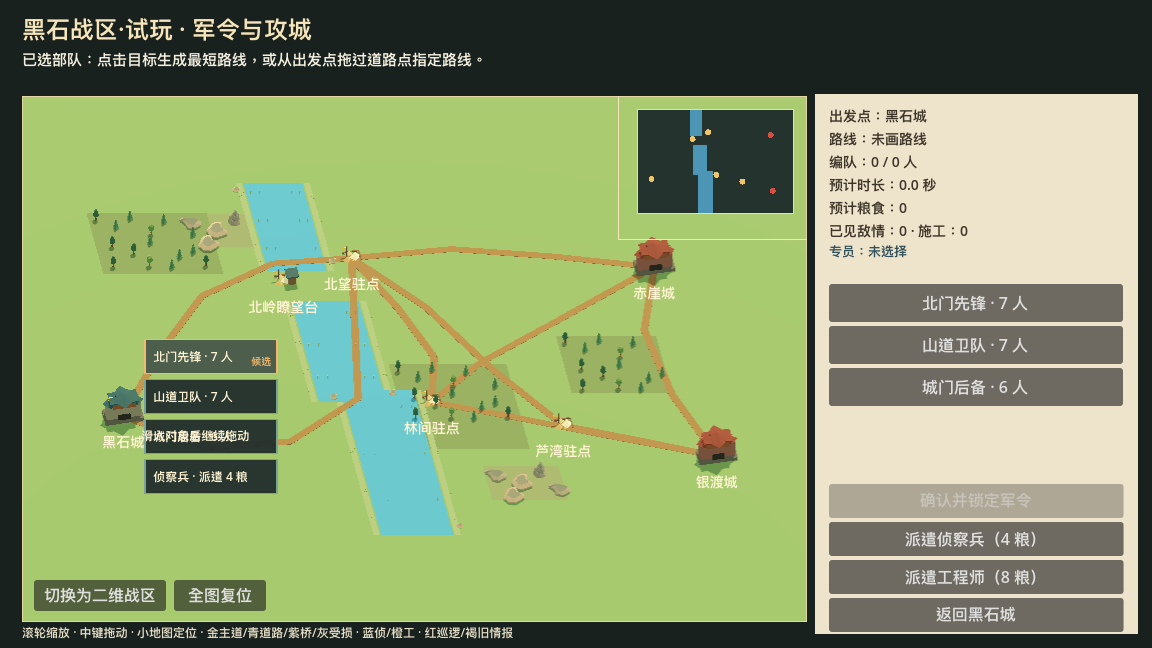
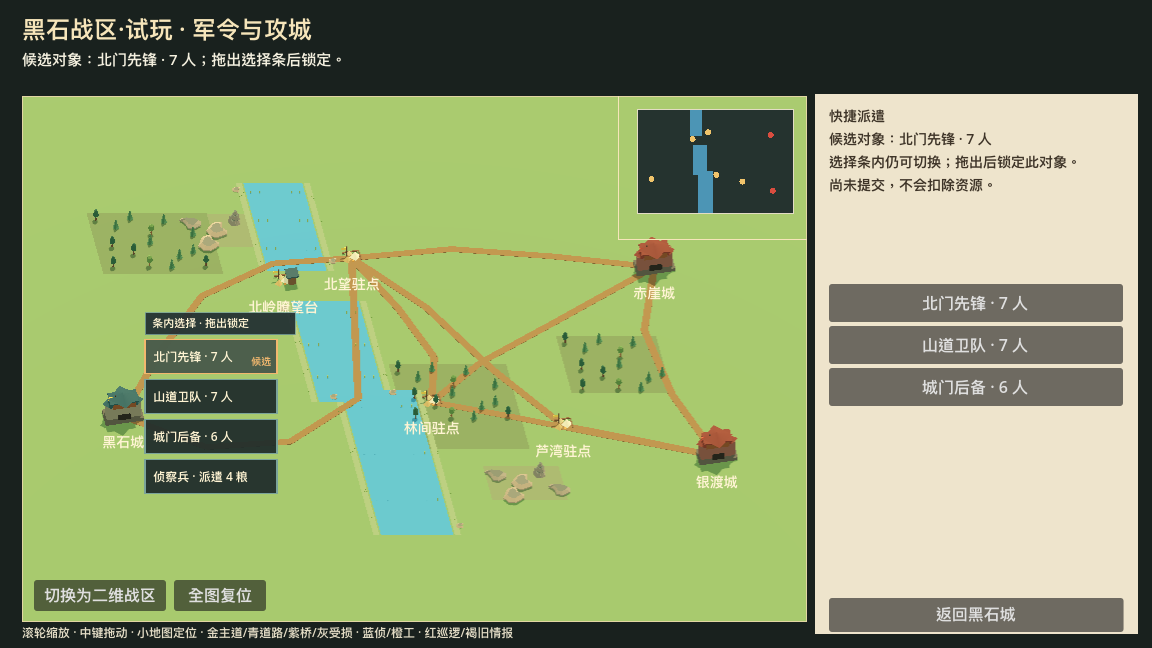
clarify direct dispatch status copy

diff --git a/docs/milestones/txwzs-field-tactics-r2/evidence/20260910-direct-map-dispatch/VERIFICATION.md b/docs/milestones/txwzs-field-tactics-r2/evidence/20260910-direct-map-dispatch/VERIFICATION.md
@@ -18,6 +18,20 @@ transaction after a valid target release. Engineering keeps the deliberately
 different editable plan: release into legal open land creates a draft only;
 the visible map-side `开工` action is the sole construction commitment.
 
+## Display-priority follow-up
+
+While the direct-map gesture is active, the top status and side detail use the
+same current gesture state rather than the normal selected-army or specialist
+copy. They show the candidate row while the pointer remains in the strip, the
+locked subject plus target/duration/food for a valid preview, or the validation
+reason before a release can publish anything. The instruction is rendered in a
+separate callout outside the picker rows, preserving each row's name/count and
+candidate/locked label. Gesture completion or cancellation returns to the
+ordinary overview without changing authoritative selection or command state.
+The related low-poly graphical fixture sends a complete press/release pair for
+map selection, so it cannot leave the hold recognizer pending before an
+independent engineering interaction.
+
 ## Command and result
 
 Run from the repository root with an isolated V5 store:
@@ -30,10 +44,11 @@ TXWZS_GODOT_BIN="/Users/m4-zhi/Documents/codex-tools/godot/4.5.1-stable-standard
 Godot 4.5.1 graphical Metal run passed:
 
 ```text
-DIRECT_DISPATCH_TRACE invalid=true scout=true march=true engineering=true start=true
+DIRECT_DISPATCH_TRACE hover=true lock=true hint_clear=true hover_copy=true locked_copy=true invalid_copy=true cancel_overview=true invalid=true scout=true march=true repair_shortage=true repair_unreachable=true repair_commit=true engineering=true start=true
 CAPTURED: docs/milestones/txwzs-field-tactics-r2/evidence/20260910-direct-map-dispatch/01-picker-hover-engine-gui.png
 CAPTURED: docs/milestones/txwzs-field-tactics-r2/evidence/20260910-direct-map-dispatch/02-picker-locked-engine-gui.png
-MACRO_MARCH_DIRECT_DISPATCH_GRAPHICAL_SMOKE PASS assertions=14
+CAPTURED: docs/milestones/txwzs-field-tactics-r2/evidence/20260910-direct-map-dispatch/03-picker-invalid-target-gui.png
+MACRO_MARCH_DIRECT_DISPATCH_GRAPHICAL_SMOKE PASS assertions=18
 ```
 
 The test sends the normal `MacroMarchR0` GUI input sequence: mouse press,
@@ -50,6 +65,10 @@ release. It asserts:
   creates exactly one project and spends the preview cost once.
 - focus loss clears a pending direct gesture, so its later release cannot
   publish an order;
+- candidate hover, locked valid target and invalid target each render their
+  matching top/side copy; cancellation restores the ordinary overview;
+- the picker instruction rectangle stays outside every option row, so it cannot
+  overlap a subject name, member count or candidate/locked state;
 - a continuous path crossing several rows locks the intended final highlight,
   not an earlier crossed option; the test records the exact `formation_id` and
   verifies that the published macro order contains that same formation;

diff --git a/CURRENT_STATE.md b/CURRENT_STATE.md
@@ -1,5 +1,30 @@
 # 当前状态
 
+## Direct-dispatch copy priority (2026-09-10)
+
+The direct-map gesture now owns the top status line and side detail for its
+full pre-commit lifetime. Before a row is chosen it explains that the player
+must slide into the strip; while a row is hovered it names the candidate and
+explains that leaving the strip locks it; after locking it shows the subject,
+source, target, authority duration and food cost, with `松手派遣` only for a
+valid preview. A live validation error takes priority over route copy and says
+that release cannot publish an order, project or resource transaction.
+
+The strip instruction moved into its own small callout outside all option
+rectangles, leaving each row exclusively for its subject label and its
+`候选`/`锁定` state. Cancelling or completing the gesture clears only this
+temporary presentation state and restores the ordinary overview on the next
+refresh; no selection, order, food, repair or multi-formation behavior was
+changed. The direct graphical contract now captures candidate, locked and
+invalid-preview states and asserts their top/side copy, as GUI-event/render
+evidence. Player acceptance remains **OPEN**; the earlier stall is still
+**NOT REPRODUCED / NOT DIAGNOSED**.
+
+The low-poly graphical fixture now emits a complete press/release pair for a
+map click. This keeps a selection click distinct from a held direct-dispatch
+gesture and prevents later engineering checks from inheriting an impossible
+pending hold state.
+
 ## Direct-map hover and repair-intent repair (2026-09-10)
 
 The direct object strip now makes its two pre-commit states visible: a row is

diff --git a/CHANGELOG.md b/CHANGELOG.md
@@ -2,6 +2,17 @@
 
 ## 2026-09-10
 
+- Give the direct-map dispatch gesture ownership of its transient status and
+  side detail: candidate, locked valid target and invalid target now have
+  distinct player-facing copy without changing authority behavior.
+- Move the picker instruction out of option rows so it cannot cover subject
+  names, member counts or candidate/locked labels.
+- Extend the graphical direct-dispatch contract with top/side copy assertions
+  and a captured invalid-preview state.
+- Make the low-poly graphical map-click fixture emit both press and release,
+  matching normal selection input instead of leaving a direct-dispatch hold
+  pending for a later engineering check.
+
 - Added distinct direct-strip `候选` hover and `锁定` feedback, and extended
   graphical verification from the chosen strip row through the exact formation
   snapshot in the published macro order.
